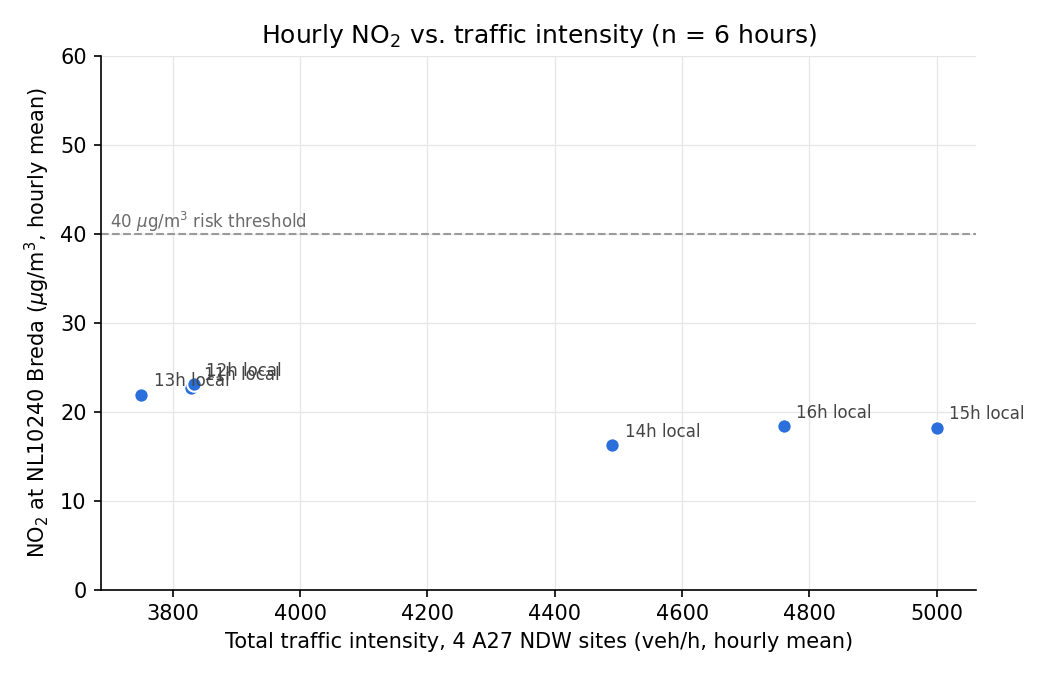
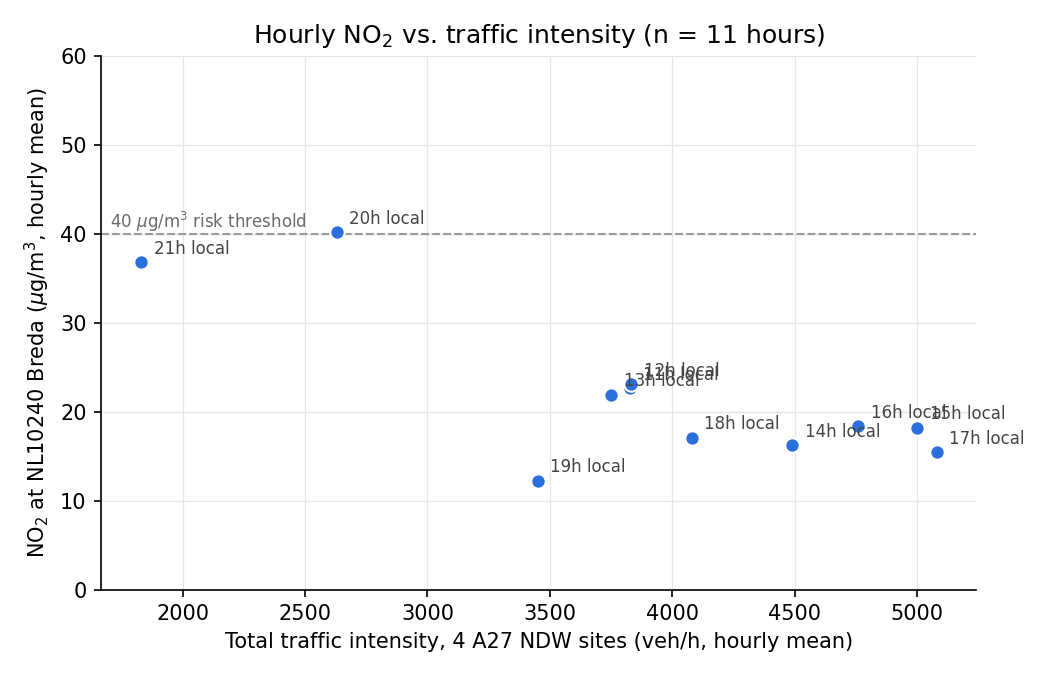
model: retrain on 11 hourly rows and update the document numbers

diff --git a/docs/index.md b/docs/index.md
@@ -15,7 +15,7 @@ AirBreda answers one question for the Municipality of Breda: how does A27 traffi
 
 It runs on AWS in eu-north-1 (Stockholm): one EC2 t3.micro with two cron-started ingestion containers and an always-on dashboard, RDS PostgreSQL and an S3 bucket. Dashboard: [http://13.61.230.95:8000](http://13.61.230.95:8000). Code: [https://github.com/MohammadaliJaberi244437/airbreda](https://github.com/MohammadaliJaberi244437/airbreda).
 
-I did the five-day course in one day (1 October 2026). NDW capture started on my laptop at 10:33 local time, before any cloud resource existed; cloud ingestion has run since 11:23. With <!--N_ROWS-->6<!--/N_ROWS--> hourly rows the model is a placeholder that proves the serving path; the architecture is the deliverable.
+I did the five-day course in one day (1 October 2026). NDW capture started on my laptop at 10:33 local time, before any cloud resource existed; cloud ingestion has run since 11:23. With <!--N_ROWS-->11<!--/N_ROWS--> hourly rows the model is a placeholder that proves the serving path; the architecture is the deliverable.
 
 ## 1. Architecture diagram {#architecture}
 
@@ -157,21 +157,21 @@ flowchart LR
 
 ### ADR-006: ML Serving Architecture {#adr-006}
 
-**Status:** Accepted for the prototype; numbers from the final training at <!--TRAINED_AT-->18:21 on 1 October 2026 (Amsterdam time)<!--/TRAINED_AT-->.
+**Status:** Accepted for the prototype; numbers from the final training at <!--TRAINED_AT-->23:13 on 1 October 2026 (Amsterdam time)<!--/TRAINED_AT-->.
 
-**Context.** Target: hourly NO2 at NL10240. Features: total A27 intensity (hourly mean of the 10-minute samples, summed over four sites) and local hour of day. Training data: <!--N_ROWS-->6<!--/N_ROWS--> hourly rows (<!--TRAIN_RANGE-->hours ending 1 October 2026 10:00 UTC to 1 October 2026 15:00 UTC<!--/TRAIN_RANGE-->). Flagged hours are excluded, as are hours in which any site has fewer than 3 samples spanning 30 minutes (the coverage rule the dashboard applies too) and hours without published NO2.
+**Context.** Target: hourly NO2 at NL10240. Features: total A27 intensity (hourly mean of the 10-minute samples, summed over four sites) and local hour of day. Training data: <!--N_ROWS-->11<!--/N_ROWS--> hourly rows (<!--TRAIN_RANGE-->hours ending 1 October 2026 10:00 UTC to 1 October 2026 20:00 UTC<!--/TRAIN_RANGE-->). Flagged hours are excluded, as are hours in which any site has fewer than 3 samples spanning 30 minutes (the coverage rule the dashboard applies too) and hours without published NO2.
 
 ![Training data: NO2 at NL10240 against total A27 intensity](img/no2_vs_intensity.png)
 
 **Decision.**
 
-- **Linear regression** on `[total_intensity_veh_per_hr, hour_of_day]`: three parameters, readable coefficients, little room to memorise a handful of rows. Result: in-sample R2 <!--R2-->0.71<!--/R2-->, in-sample MAE <!--MAE-->1.03<!--/MAE--> ug/m3, intensity coefficient <!--COEF_INTENSITY-->-0.0033<!--/COEF_INTENSITY--> ug/m3 per veh/h, hour coefficient <!--COEF_HOUR-->-0.342<!--/COEF_HOUR-->, intercept <!--INTERCEPT-->38.99<!--/INTERCEPT-->. Below 10 rows there is no test set, so these numbers say nothing about predictive skill. Sign check from the training run: <!--SIGN_NOTE-->UNEXPECTED sign: more traffic lowers predicted NO2 (-3.34 ug/m3 per +1000 veh/h). Likely too little data or confounding (wind, boundary layer height, time of day), not a real effect.<!--/SIGN_NOTE--> Thousands of hourly rows with weather features would justify gradient-boosted trees.
+- **Linear regression** on `[total_intensity_veh_per_hr, hour_of_day]`: three parameters, readable coefficients, little room to memorise a handful of rows. Result: in-sample R2 <!--R2-->0.62<!--/R2-->, in-sample MAE <!--MAE-->3.47<!--/MAE--> ug/m3, intensity coefficient <!--COEF_INTENSITY-->-0.0071<!--/COEF_INTENSITY--> ug/m3 per veh/h, hour coefficient <!--COEF_HOUR-->-0.071<!--/COEF_HOUR-->, intercept <!--INTERCEPT-->50.69<!--/INTERCEPT-->. Below 10 rows there is no test set, so these numbers say nothing about predictive skill. Sign check from the training run: <!--SIGN_NOTE-->UNEXPECTED sign: more traffic lowers predicted NO2 (-7.09 ug/m3 per +1000 veh/h). Likely too little data or confounding (wind, boundary layer height, time of day), not a real effect.<!--/SIGN_NOTE--> Thousands of hourly rows with weather features would justify gradient-boosted trees.
 - **no2_exceedance_risk** = 1 / (1 + exp(-0.2 x (predicted NO2 - 40))). 40 ug/m3 is the EU annual limit value (Directive 2008/50/EC) and the WHO 2005 annual guideline, applied to hourly values as a deliberate, stated mismatch: an hour above 40 is no legal exceedance but pushes the annual mean the wrong way, while the hourly limit of 200 is never approached here. A sigmoid rather than a yes/no flag, because the prediction is uncertain: 0.12 at 30, 0.5 at 40, 0.88 at 50.
 - **Training-serving skew** here would be: local hour for training but UTC for serving (predictions one or two hours off); hourly means for training but one 1-minute sample for serving; or an 08:30 traffic sample joined to the NO2 row labelled 08:00, although Luchtmeetnet labels an hour by its end (09:00). One module, `features.py`, used by training and dashboard alike, prevents all three. Baking the model into the image removes another cause: code and model ship as one versioned artifact, so serving cannot load a model built with other feature code or fail on a runtime download.
 - **One station, four sites:** the sites form one interchange with one air-quality context, and the model uses their sum. A second interchange needs a second station when its traffic cannot plausibly reach NL10240 (kilometres away, or usually downwind); otherwise the model learns noise.
 - **If predict() fails**, `/site/{id}` still returns 200 with the real NO2 and intensity, a null prediction and risk, and a `prediction_error`, logged as ERROR: the measurements are the trustworthy part and should not vanish because the least trustworthy part failed. Only an unreachable RDS or S3 gives 503, because then nothing real is left.
 
-**Consequences.** All four sites show the same prediction and risk next to their own intensity, and the risk is a score, not a calibrated probability. With <!--N_ROWS-->6<!--/N_ROWS--> rows the model is a placeholder, not a forecast. Retraining means rebuilding and restarting the image: model and feature code cannot drift apart, but no model changes without a deploy. A model failure costs the prediction, never the page. A second interchange needs its own station mapping and model.
+**Consequences.** All four sites show the same prediction and risk next to their own intensity, and the risk is a score, not a calibrated probability. With <!--N_ROWS-->11<!--/N_ROWS--> rows the model is a placeholder, not a forecast. Retraining means rebuilding and restarting the image: model and feature code cannot drift apart, but no model changes without a deploy. A model failure costs the prediction, never the page. A second interchange needs its own station mapping and model.
 
 ## 3. Trade-off justifications {#trade-offs}
 
@@ -219,7 +219,7 @@ What we would lose by switching: not the data and not the software. AirBreda is 
 
 ## 6. Reflection {#reflection}
 
-My least confident decision is the core modelling assumption: that A27 traffic at hectometer 63 explains NO2 at Breda-Tilburgseweg, so one station serves all four sites and traffic plus hour are the only features. I chose it because it was the pairing I could build and test in a day, not because data showed it. With <!--N_ROWS-->6<!--/N_ROWS--> rows the model cannot separate traffic from time of day, weather or the regional background: on a calm morning NO2 rises with or without the motorway. Three things would make me confident: months of data with KNMI wind direction, where the traffic effect should be clearly larger when the wind blows from the A27 to the station; a background station away from the motorway as a control; and a held-out test in which the model beats a naive baseline such as the same hour last week.
+My least confident decision is the core modelling assumption: that A27 traffic at hectometer 63 explains NO2 at Breda-Tilburgseweg, so one station serves all four sites and traffic plus hour are the only features. I chose it because it was the pairing I could build and test in a day, not because data showed it. With <!--N_ROWS-->11<!--/N_ROWS--> rows the model cannot separate traffic from time of day, weather or the regional background: on a calm morning NO2 rises with or without the motorway. Three things would make me confident: months of data with KNMI wind direction, where the traffic effect should be clearly larger when the wind blows from the A27 to the station; a background station away from the motorway as a control; and a held-out test in which the model beats a naive baseline such as the same hour last week.
 
 With a full year of data I would change three things. Features: wind speed and direction, temperature, day of week, holidays, congestion (speed), and hour of day as a cycle (sine and cosine), since NO2 has morning and evening peaks that a linear hour term cannot express. Algorithm: gradient-boosted trees, which learn interactions such as "traffic matters when the wind is from the east", with linear regression as the baseline to beat. Evaluation: a time-based split (train on nine months and test on three, or a rolling origin), never a random one, because neighbouring hours are near copies and would leak. I would report MAE against the naive baseline and, for the risk score, its calibration and how many real hours above 40 it catches.
 
